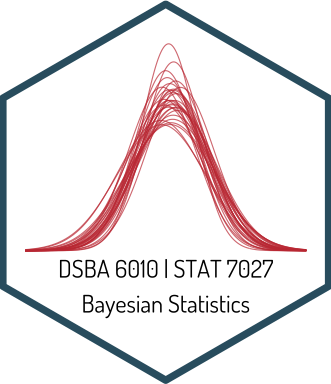
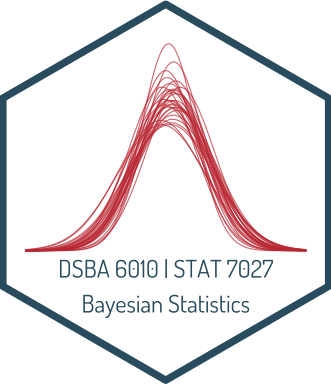
update hex sticker.R, stickers, modify theme colors, and hero colors

Changed region(s): [[0.1813, 0.6562, 0.8157, 0.75], [0.2417, 0.75, 0.7553, 0.8438]]

diff --git a/layouts/partials/site_footer.html b/layouts/partials/site_footer.html
@@ -5,21 +5,21 @@
         <div class="col-md-7">
             <p>
                 <strong>{{ .Site.Params.course.number }}: {{ .Site.Title }} ({{ .Site.Params.course.semester }})</strong><br>
-                <a href="{{ .Site.Params.university.url }}" target="_blank" rel="noopener">{{ .Site.Params.university.name }}</a> &emsp;&emsp;
+                <a href="{{ .Site.Params.university.url }}" target="_blank" rel="noopener">{{ .Site.Params.university.name }}</a> &emsp;
                 <a href="{{ .Site.Params.school.url }}" target="_blank" rel="noopener">{{ .Site.Params.school.name }}</a>
             </p>
 
             <p>
                 <a href="{{ .Site.Params.instructor.url }}" target="_blank" rel="noopener"><i class="fas fa-user"></i>
-                    {{ .Site.Params.instructor.name }}</a> &emsp;&emsp;
+                    {{ .Site.Params.instructor.name }}</a> &emsp;
                 <a href="mailto:{{ .Site.Params.instructor.email }}"><i class="fas fa-envelope"></i>
                     {{ .Site.Params.instructor.email }}</a>
             </p>
 
             <p>
-                <i class="far fa-calendar-alt"></i> {{ .Site.Params.course.days }} &emsp;&emsp;
-                <i class="far fa-clock"></i> {{ .Site.Params.course.time }} 
-                {{ if isset .Site.Params.course "location" }}<br><i class="fas fa-university"></i> {{ .Site.Params.course.location }}{{end}}
+                <i class="far fa-calendar-alt"></i> {{ .Site.Params.course.days }} &emsp;
+                <i class="far fa-clock"></i> {{ .Site.Params.course.time }} &emsp;
+                {{ if isset .Site.Params.course "location" }}<i class="fas fa-university"></i> {{ .Site.Params.course.location }}{{end}}
             </p>
         </div>
 

diff --git a/content/syllabus/_index.html b/content/syllabus/_index.html
@@ -1,9 +1,10 @@
 ---
-date: "2022-01-10"
-linkTitle: Syllabus
-summary: Bayesian statistics and causal inference
 title: "\U0001F4CA Syllabus"
+linkTitle: Syllabus
+date: '2022-01-10'
+output: pdf_document
 slug: syllabus
+summary: Bayesian statistics and causal inference
 ---
 
 <script src="/rmarkdown-libs/header-attrs/header-attrs.js"></script>

diff --git a/assets/scss/custom.scss b/assets/scss/custom.scss
@@ -4,11 +4,11 @@
 
 
 $colors: (
-  #FFAA00,
+  #856084,
   #335f70,
   #709099,
   #c73c41,
-  #856084,
+  #FFAA00,
   #39ABAC,
   #58CBAD
 );

diff --git a/content/home/hero.md b/content/home/hero.md
@@ -8,9 +8,9 @@ hero_media: icon-192.png
 design:
   background:
     gradient_angle: 0
-    gradient_start: '#ffd000'
-    gradient_end: '#ffaa00'
-    text_color_light: false
+    gradient_start: '#ffaa00'
+    gradient_end: '#CC8800'
+    text_color_light: true
 #cta:
 #  url: course/
 #  label: Explore our courses
@@ -20,7 +20,7 @@ cta_alt:
   url:
   label:
 cta_note:
-  label: Spring 2022 DSBA 6010 / STAT 7027 <br>School of Data Science / Department of Mathematics and Statistics <br>University of North Carolina at Charlotte
+  label: DSBA 6010 | STAT 7027 (Spring 2022) <br>School of Data Science | Department of Mathematics and Statistics <br>University of North Carolina at Charlotte
 advanced:
   css_class: fullscreen
 ---
